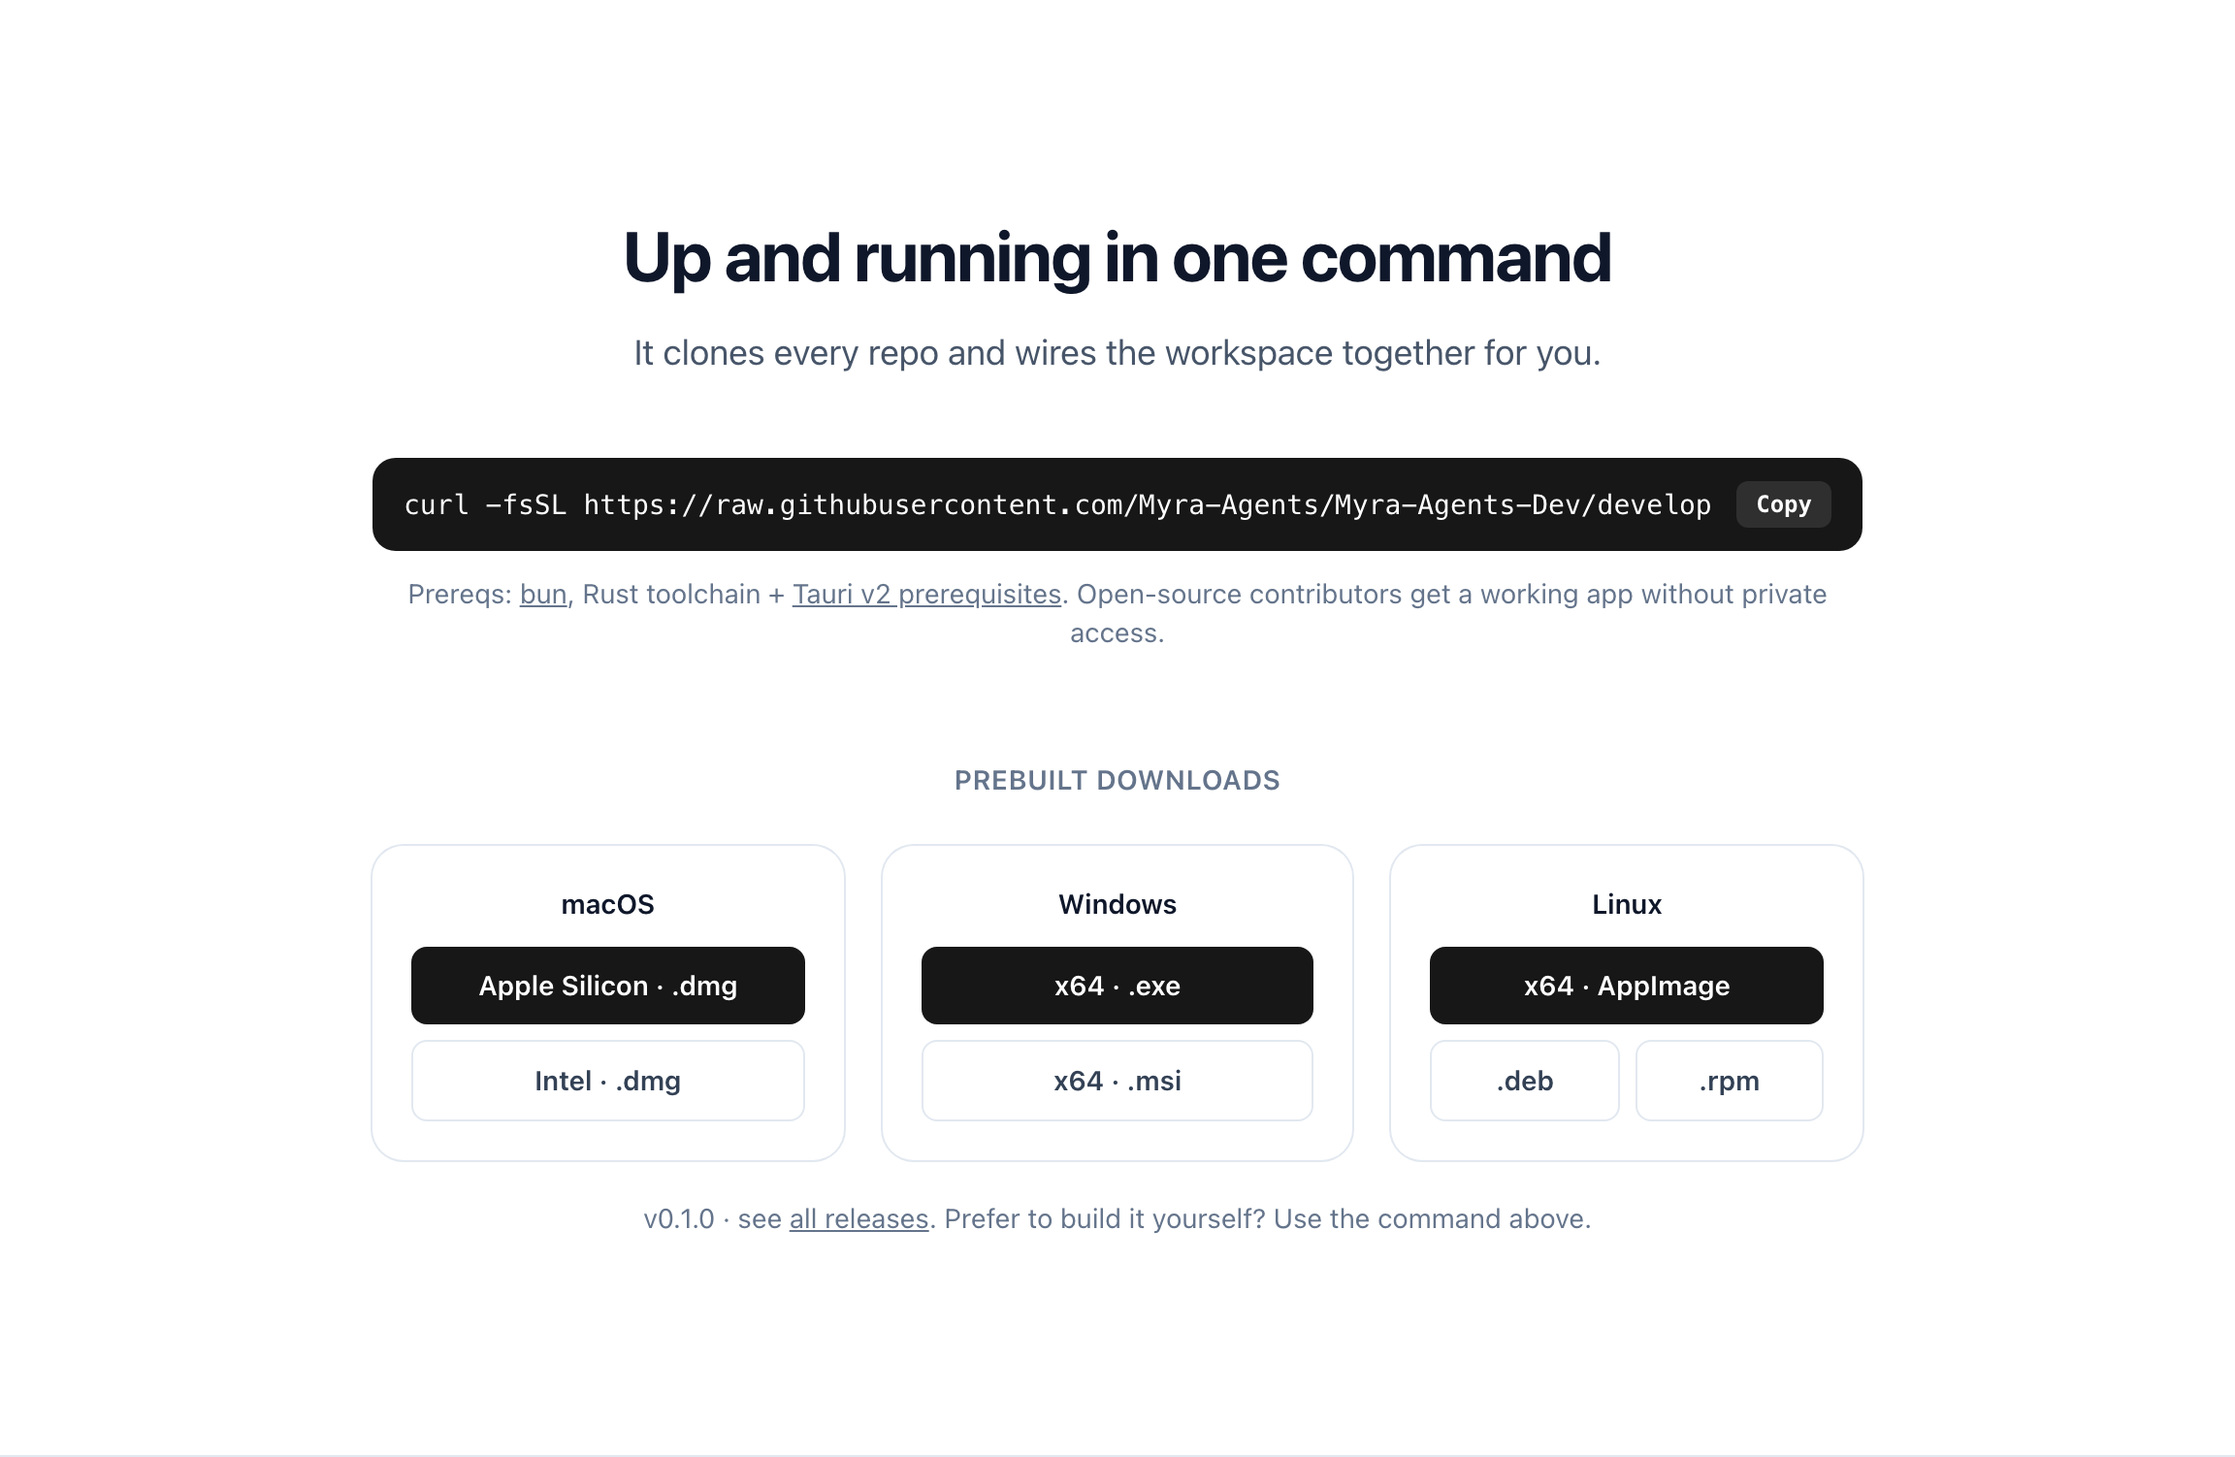
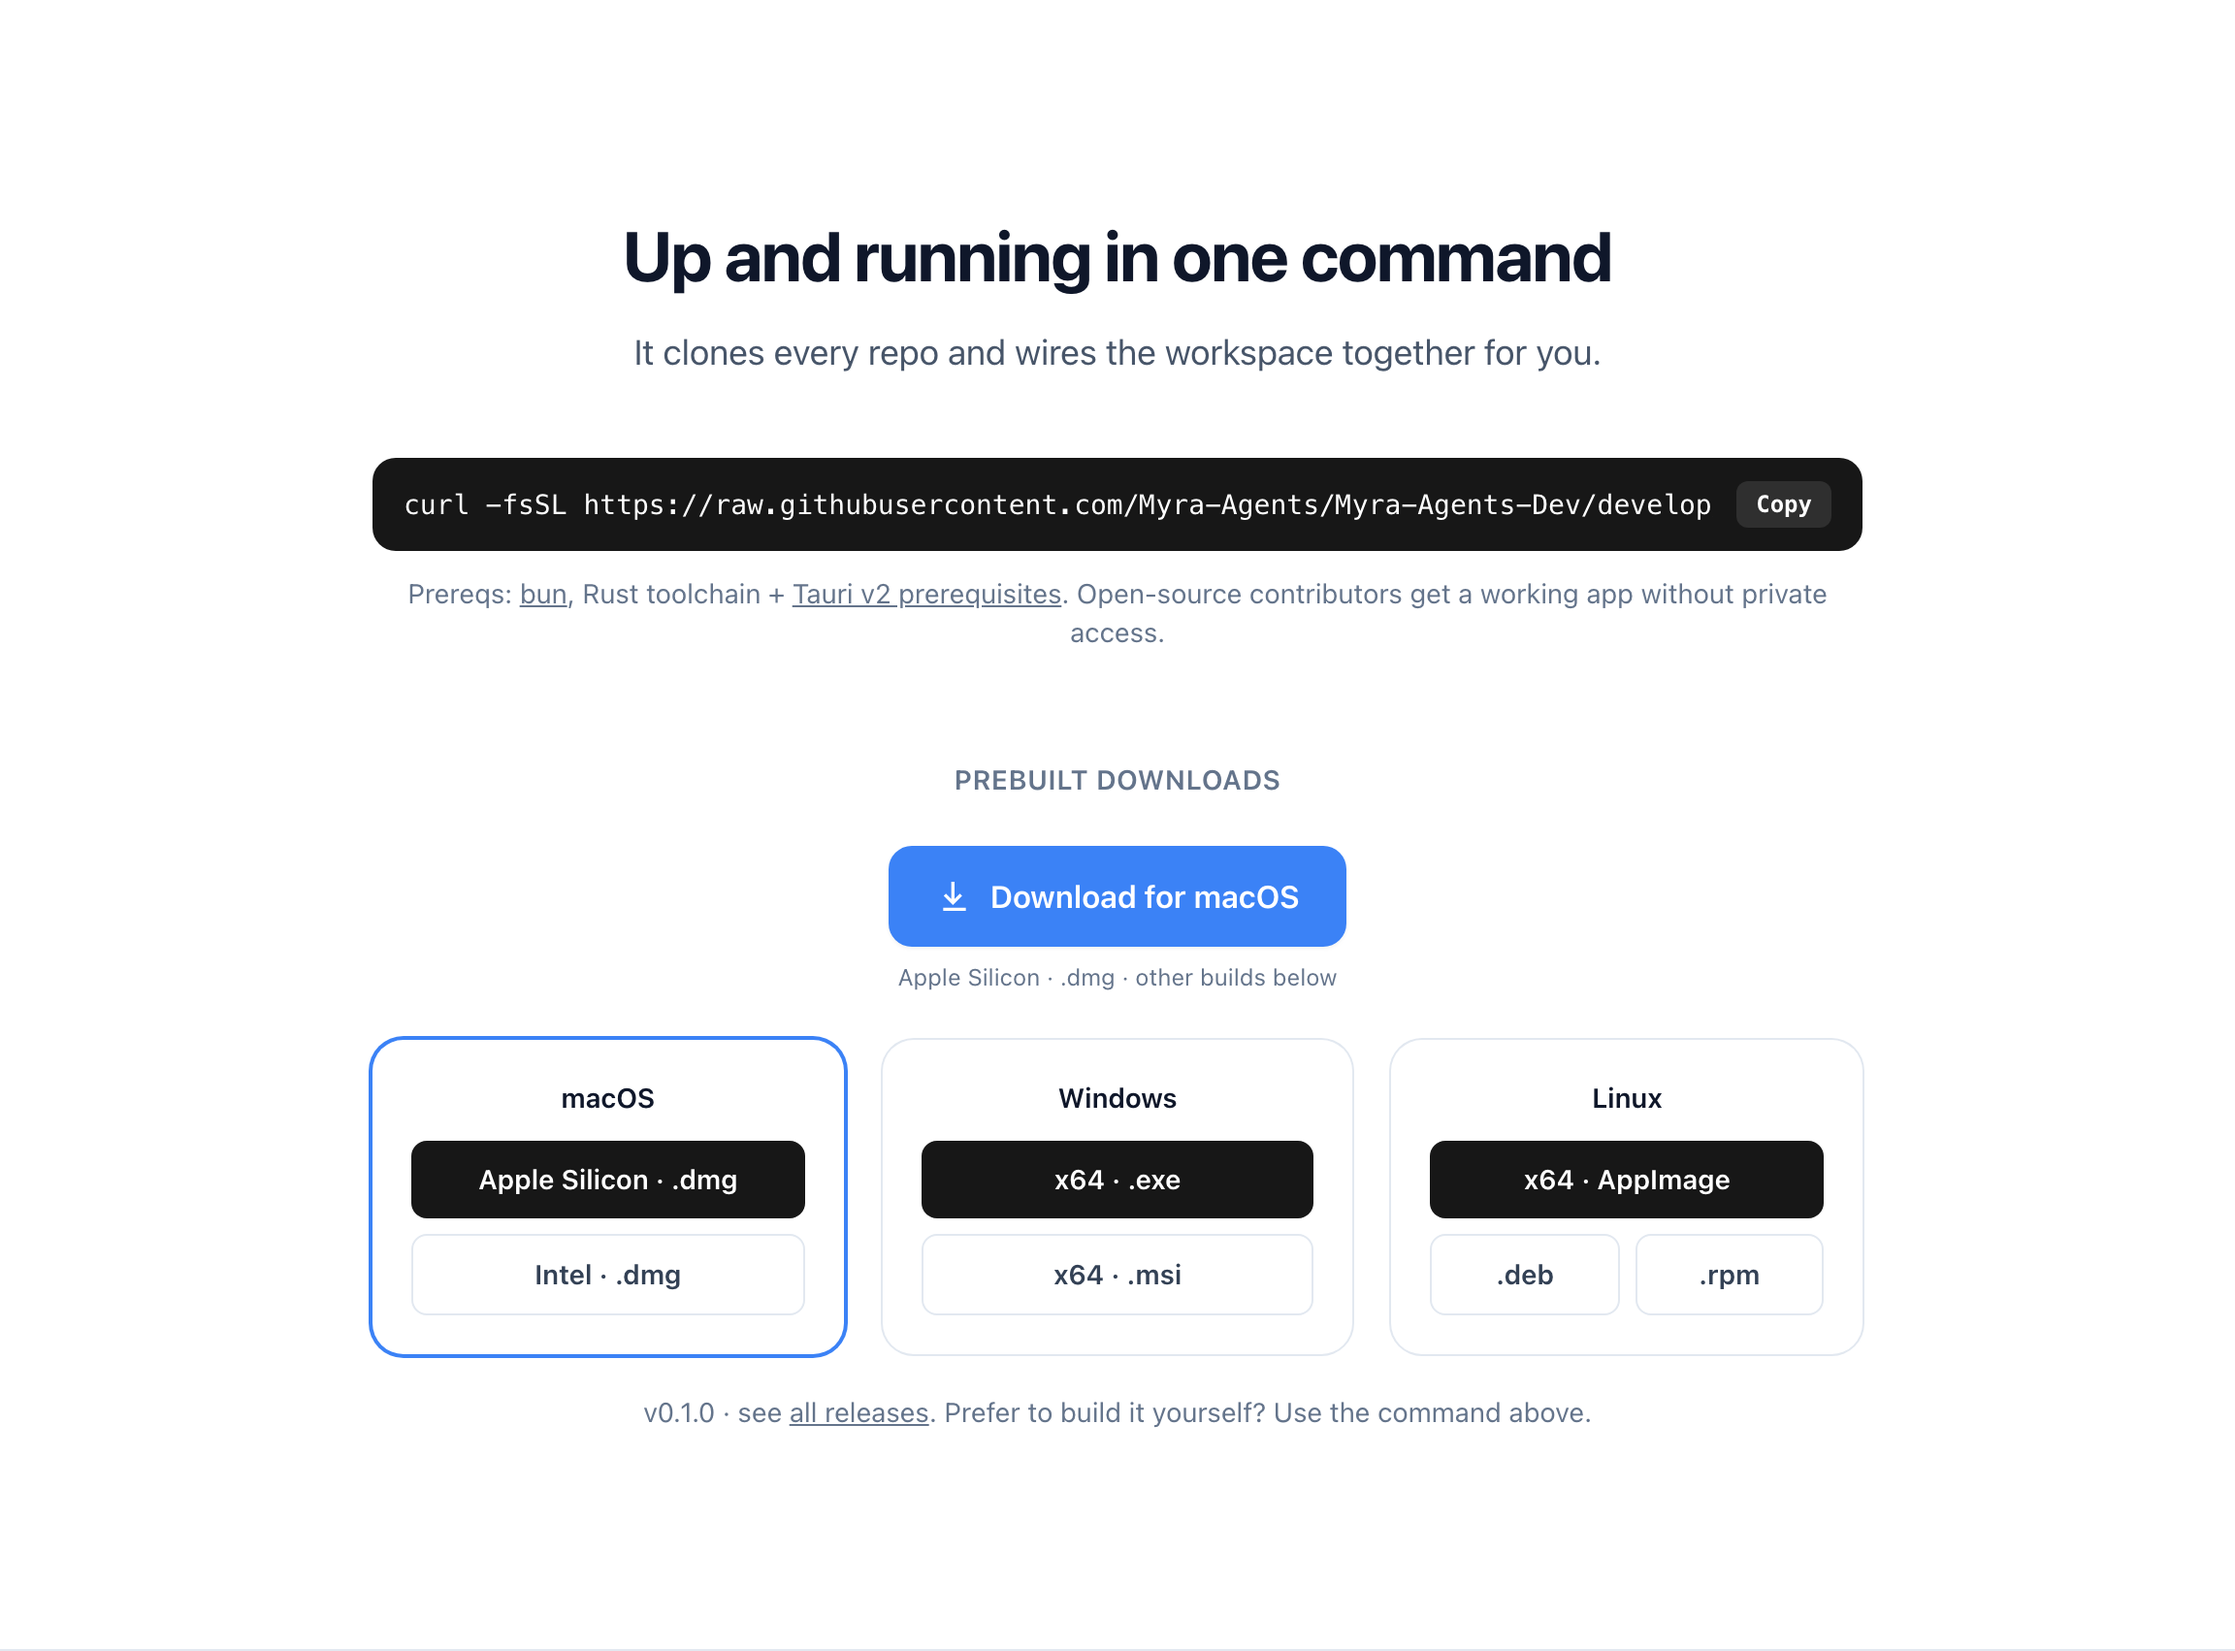
feat(landing): detect visitor OS/arch, recommend matching build
Reads navigator.userAgentData.getHighEntropyValues (Chromium) to learn
platform + CPU architecture, with a userAgent fallback. Shows a single
'Download for <OS>' CTA pointing at the right asset and ring-highlights
the matching OS card. Apple Silicon vs Intel is distinguished only on
Chromium; the UA fallback assumes Apple Silicon. Mobile/unknown falls
back to the plain grid.

diff --git a/index.html b/index.html
@@ -242,9 +242,20 @@
     <!-- Download (coming soon) -->
     <div class="mx-auto mt-14 max-w-3xl text-center">
       <h3 class="text-sm font-semibold uppercase tracking-wide text-slate-500">Prebuilt downloads</h3>
+
+      <!-- Detected download (filled by JS; hidden if detection fails) -->
+      <div id="smart-dl" class="mt-6 hidden">
+        <a id="smart-dl-link" href="#"
+           class="inline-flex items-center justify-center gap-2 rounded-xl bg-brand px-6 py-3.5 text-base font-semibold text-white shadow-sm hover:opacity-90">
+          <svg viewBox="0 0 24 24" class="h-5 w-5 fill-current"><path d="M12 3v10.6l3.3-3.3 1.4 1.4-5.7 5.7-5.7-5.7 1.4-1.4 3.3 3.3V3h2zM5 19h14v2H5z"/></svg>
+          <span id="smart-dl-label">Download</span>
+        </a>
+        <p id="smart-dl-sub" class="mt-2 text-xs text-slate-500"></p>
+      </div>
+
       <div class="mt-6 grid gap-5 sm:grid-cols-3">
         <!-- macOS -->
-        <div class="rounded-2xl bg-white p-5 ring-1 ring-slate-200">
+        <div data-os="mac" class="rounded-2xl bg-white p-5 ring-1 ring-slate-200 transition">
           <div class="text-sm font-semibold">macOS</div>
           <div class="mt-3 flex flex-col gap-2">
             <a href="https://github.com/Myra-Agents/Myra-Agents/releases/download/v0.1.0/Myra.Agents_0.1.0_aarch64.dmg"
@@ -254,7 +265,7 @@
           </div>
         </div>
         <!-- Windows -->
-        <div class="rounded-2xl bg-white p-5 ring-1 ring-slate-200">
+        <div data-os="win" class="rounded-2xl bg-white p-5 ring-1 ring-slate-200 transition">
           <div class="text-sm font-semibold">Windows</div>
           <div class="mt-3 flex flex-col gap-2">
             <a href="https://github.com/Myra-Agents/Myra-Agents/releases/download/v0.1.0/Myra.Agents_0.1.0_x64-setup.exe"
@@ -264,7 +275,7 @@
           </div>
         </div>
         <!-- Linux -->
-        <div class="rounded-2xl bg-white p-5 ring-1 ring-slate-200">
+        <div data-os="linux" class="rounded-2xl bg-white p-5 ring-1 ring-slate-200 transition">
           <div class="text-sm font-semibold">Linux</div>
           <div class="mt-3 flex flex-col gap-2">
             <a href="https://github.com/Myra-Agents/Myra-Agents/releases/download/v0.1.0/Myra.Agents_0.1.0_amd64.AppImage"
@@ -309,6 +320,61 @@
         setTimeout(() => (btn.textContent = 'Copy'), 1600);
       });
     }
+
+    // --- Detect visitor hardware and recommend the right build ---
+    (function () {
+      const REL = 'https://github.com/Myra-Agents/Myra-Agents/releases/download/v0.1.0/';
+      const ASSET = {
+        'mac-arm':  'Myra.Agents_0.1.0_aarch64.dmg',
+        'mac-x64':  'Myra.Agents_0.1.0_x64.dmg',
+        'win':      'Myra.Agents_0.1.0_x64-setup.exe',
+        'linux':    'Myra.Agents_0.1.0_amd64.AppImage',
+      };
+      const LABEL = {
+        'mac-arm':  ['Download for macOS', 'Apple Silicon · .dmg'],
+        'mac-x64':  ['Download for macOS', 'Intel · .dmg'],
+        'win':      ['Download for Windows', 'x64 · .exe installer'],
+        'linux':    ['Download for Linux', 'x64 · AppImage'],
+      };
+
+      async function detect() {
+        const uad = navigator.userAgentData;
+        // Chromium: ask for high-entropy platform + CPU architecture
+        if (uad && uad.getHighEntropyValues) {
+          try {
+            const hi = await uad.getHighEntropyValues(['platform', 'architecture']);
+            const plat = (hi.platform || '').toLowerCase();
+            const arch = (hi.architecture || '').toLowerCase();
+            if (plat.includes('mac'))     return arch === 'arm' ? 'mac-arm' : 'mac-x64';
+            if (plat.includes('win'))     return 'win';
+            if (plat.includes('linux') || plat.includes('chrome os')) return 'linux';
+          } catch (_) { /* fall through */ }
+        }
+        // Fallback: UA string sniff (can't tell Apple Silicon from Intel → assume ARM)
+        const ua = navigator.userAgent;
+        if (/Windows/i.test(ua))                 return 'win';
+        if (/Mac OS X|Macintosh/i.test(ua))      return 'mac-arm';
+        if (/Linux|X11|CrOS/i.test(ua) && !/Android/i.test(ua)) return 'linux';
+        return null; // mobile / unknown → leave the grid as-is
+      }
+
+      detect().then((key) => {
+        if (!key) return;
+        const wrap = document.getElementById('smart-dl');
+        const link = document.getElementById('smart-dl-link');
+        const lbl  = document.getElementById('smart-dl-label');
+        const sub  = document.getElementById('smart-dl-sub');
+        link.href = REL + ASSET[key];
+        lbl.textContent = LABEL[key][0];
+        sub.textContent = LABEL[key][1] + ' · other builds below';
+        wrap.classList.remove('hidden');
+
+        // highlight the matching OS card
+        const osCard = key.startsWith('mac') ? 'mac' : key;
+        const card = document.querySelector(`[data-os="${osCard}"]`);
+        if (card) card.classList.add('ring-2', 'ring-brand');
+      });
+    })();
   </script>
 </body>
 </html>
